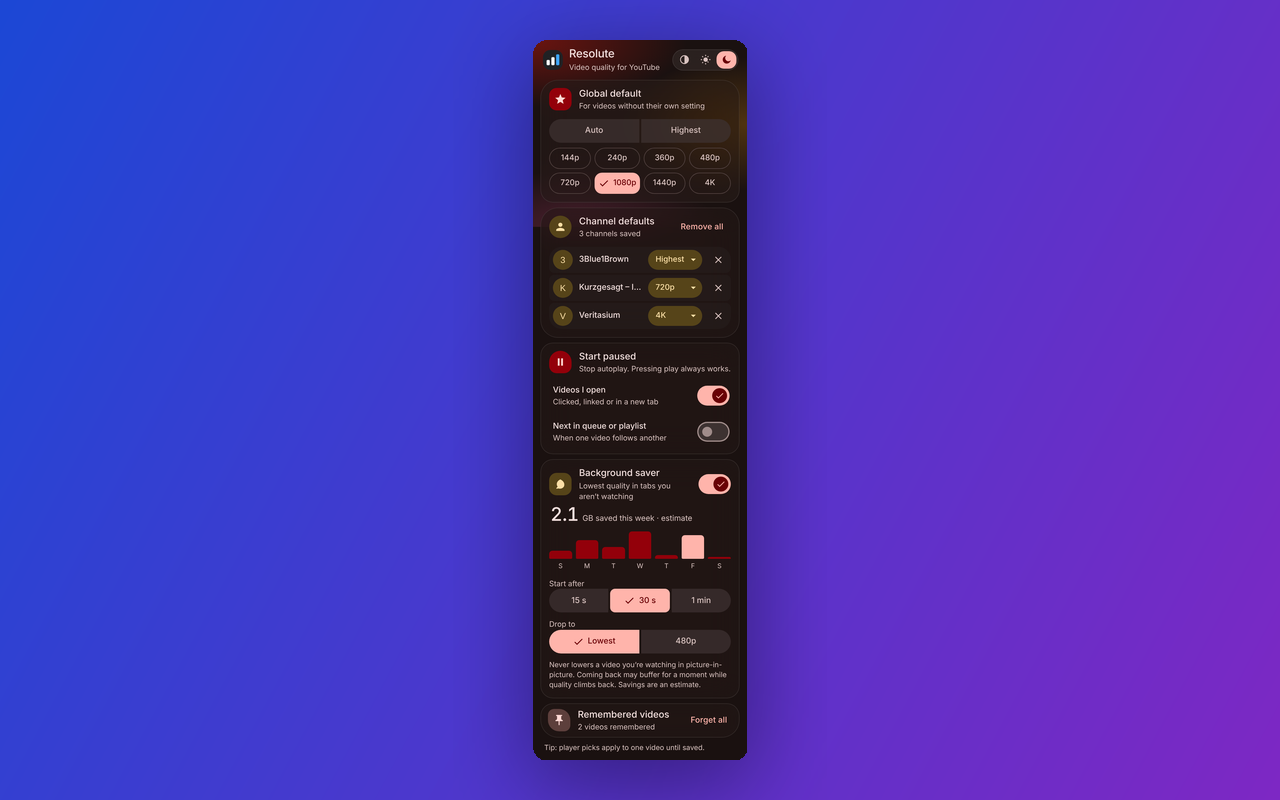
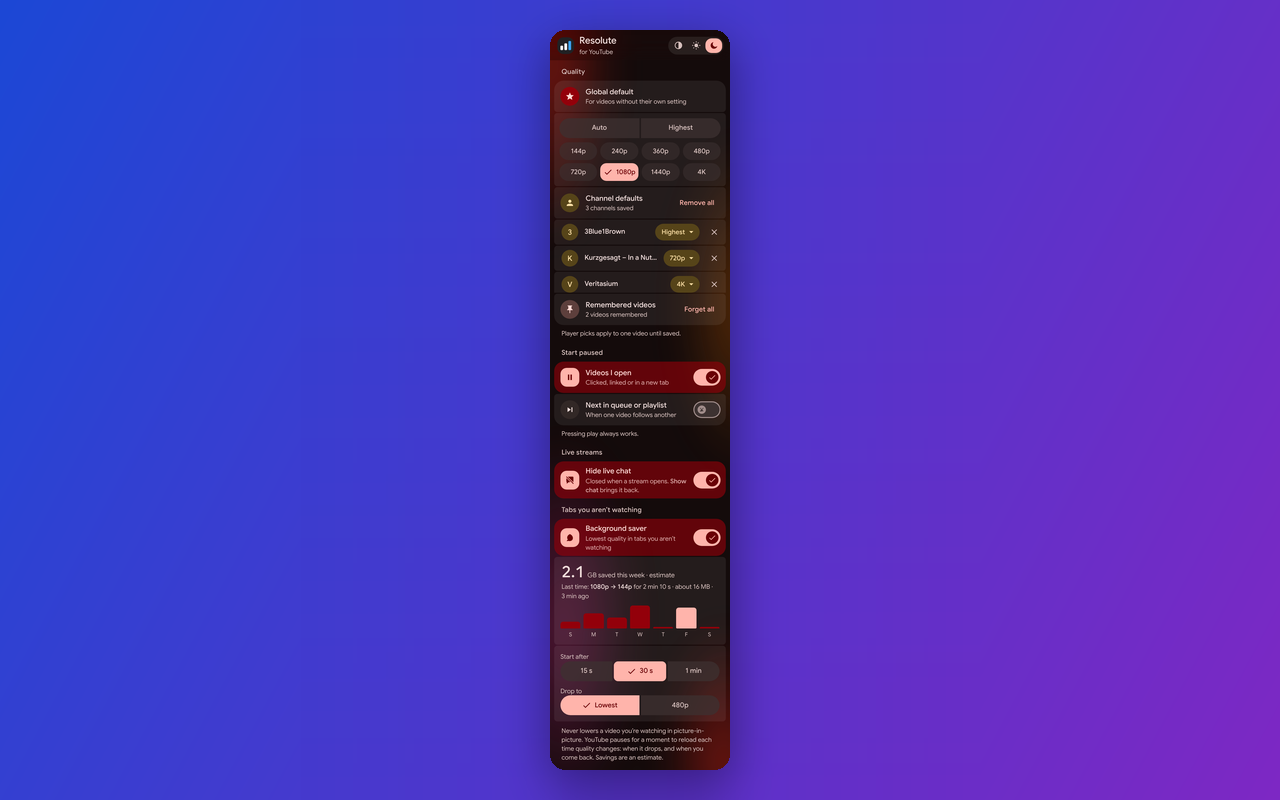
Popup subtitle 'for YouTube'; refresh README and store popup screenshots
Claude-Session: https://claude.ai/code/session_017YcEW4ynsdhgFf3u9gFA3h

Changed region(s): [[0.4062, 0.0312, 0.5938, 0.9688]]

diff --git a/popup.html b/popup.html
@@ -13,7 +13,7 @@
         <img src="icons/icon48.png" alt="" width="32" height="32">
         <div>
           <h1>Resolute</h1>
-          <p>Video quality for YouTube</p>
+          <p>for YouTube</p>
         </div>
       </div>
       <div class="theme" id="theme" role="radiogroup" aria-label="Theme">
